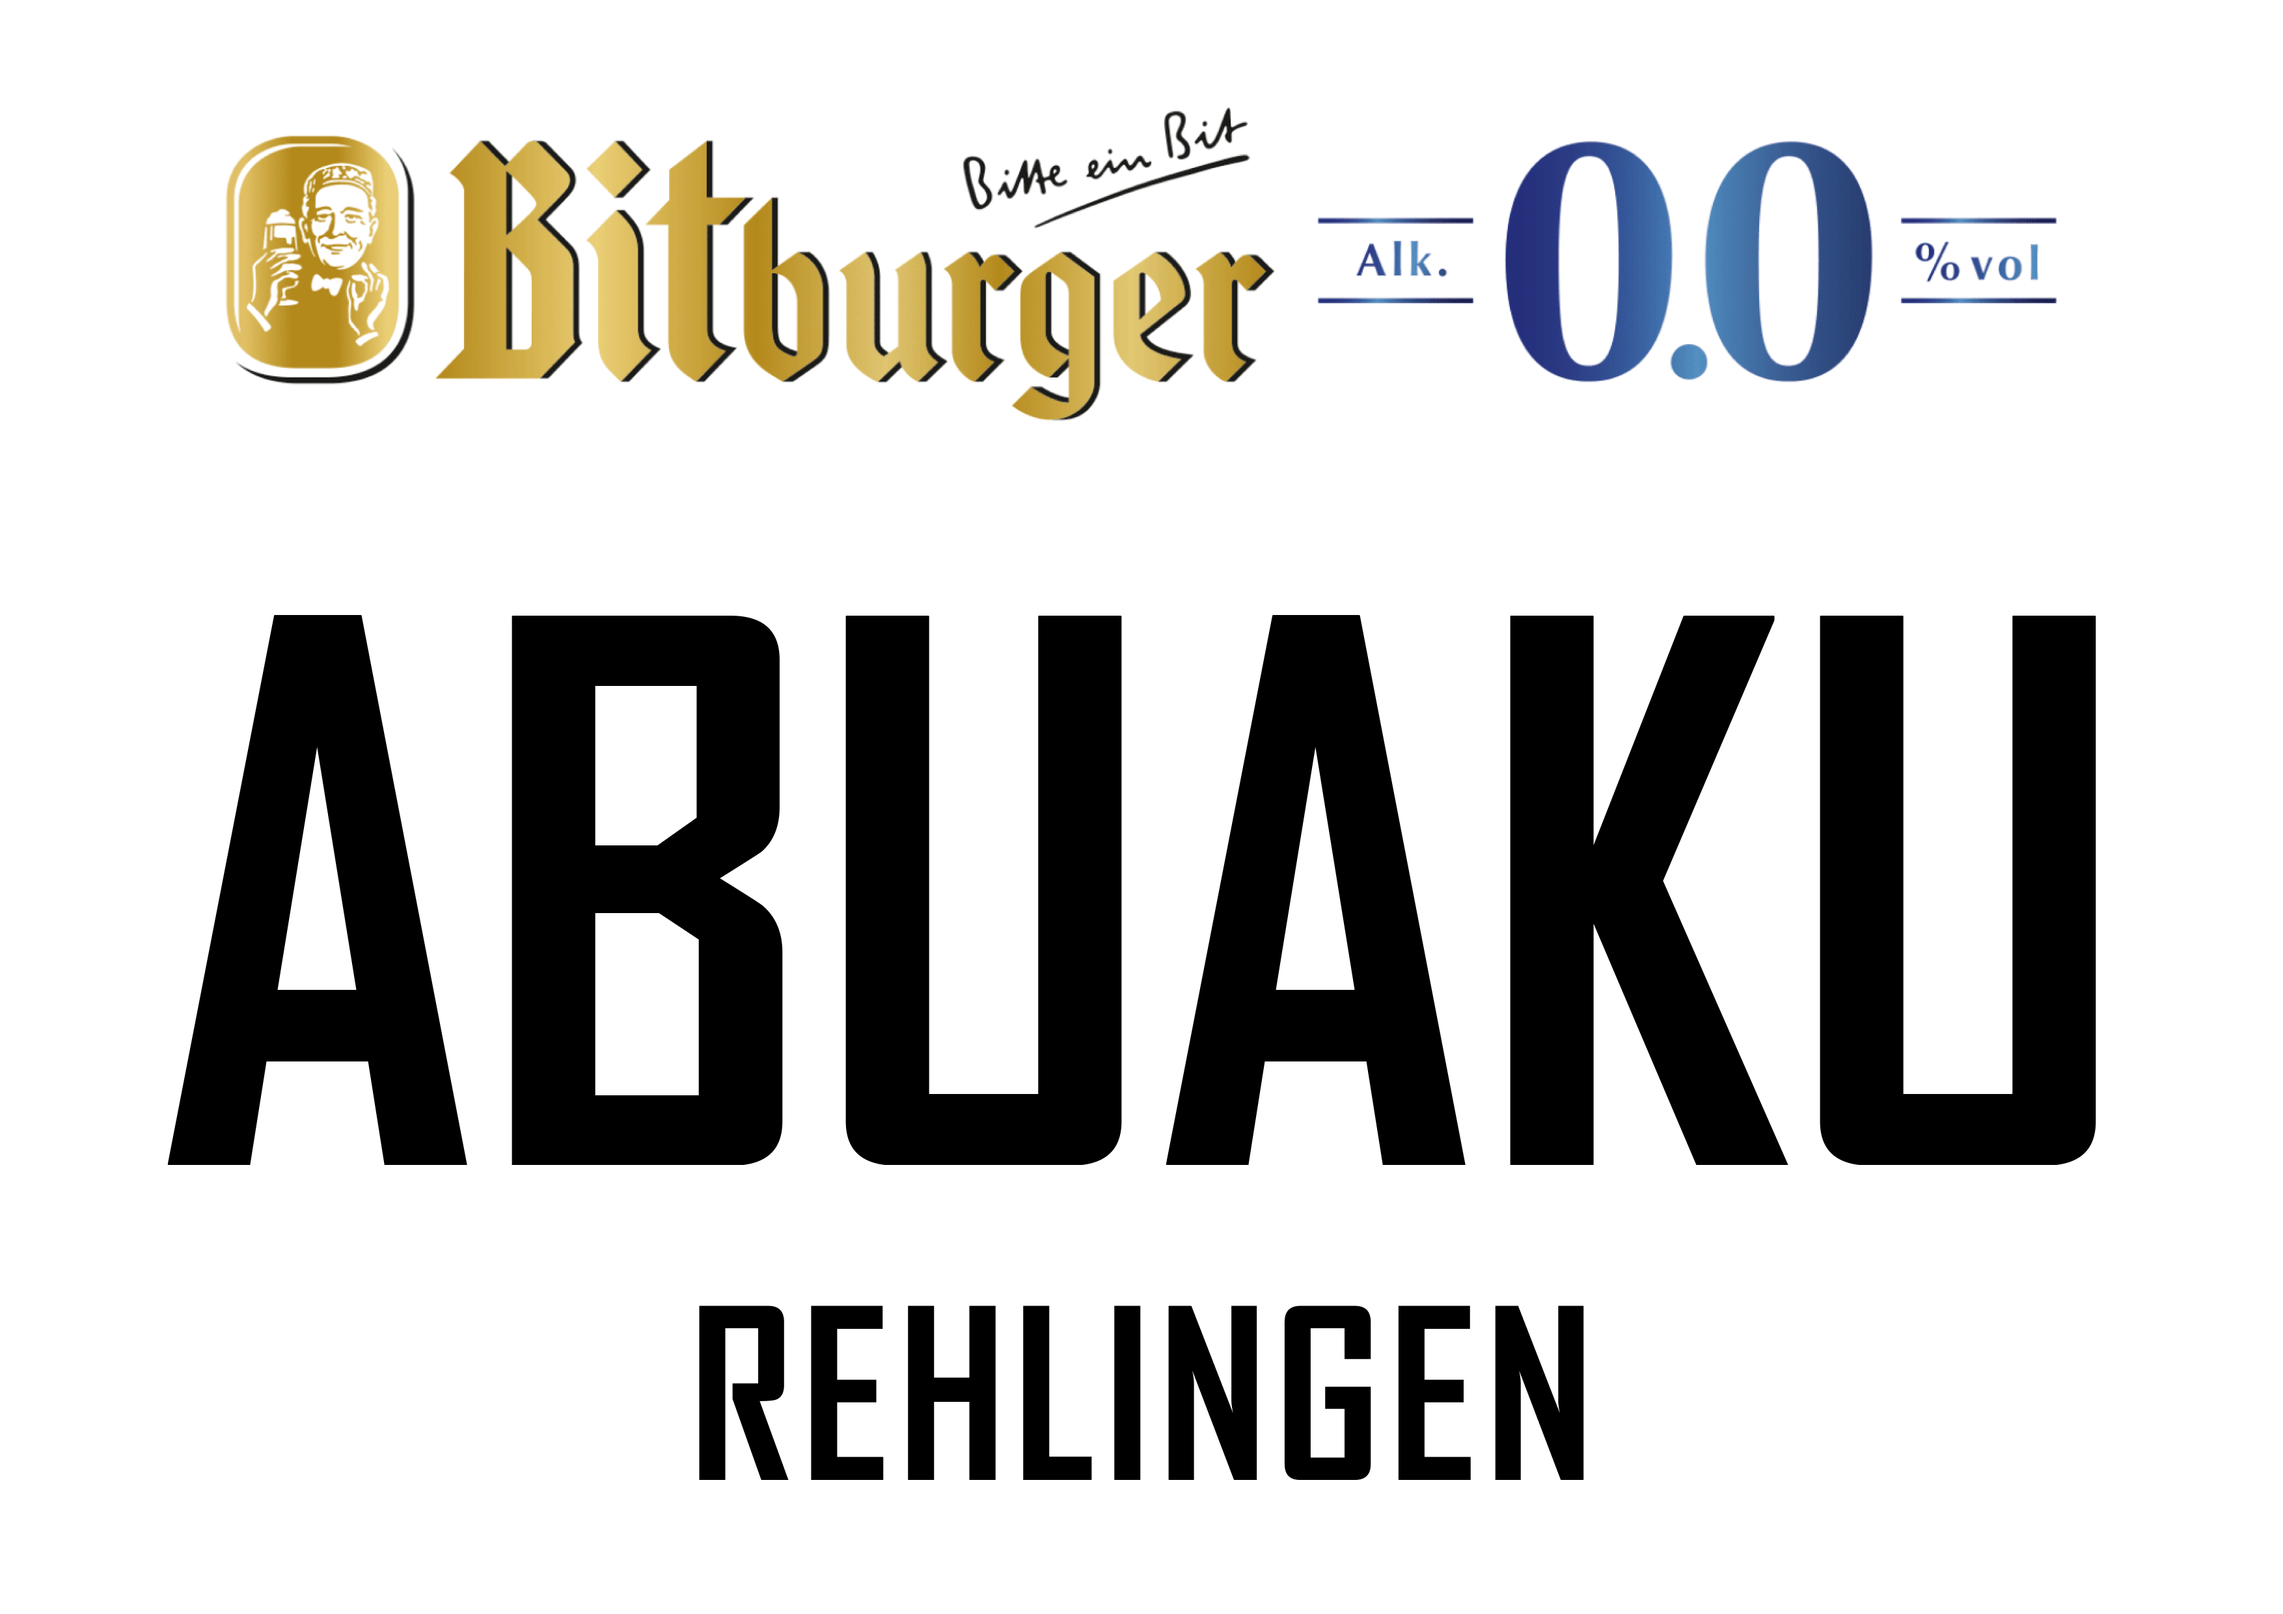
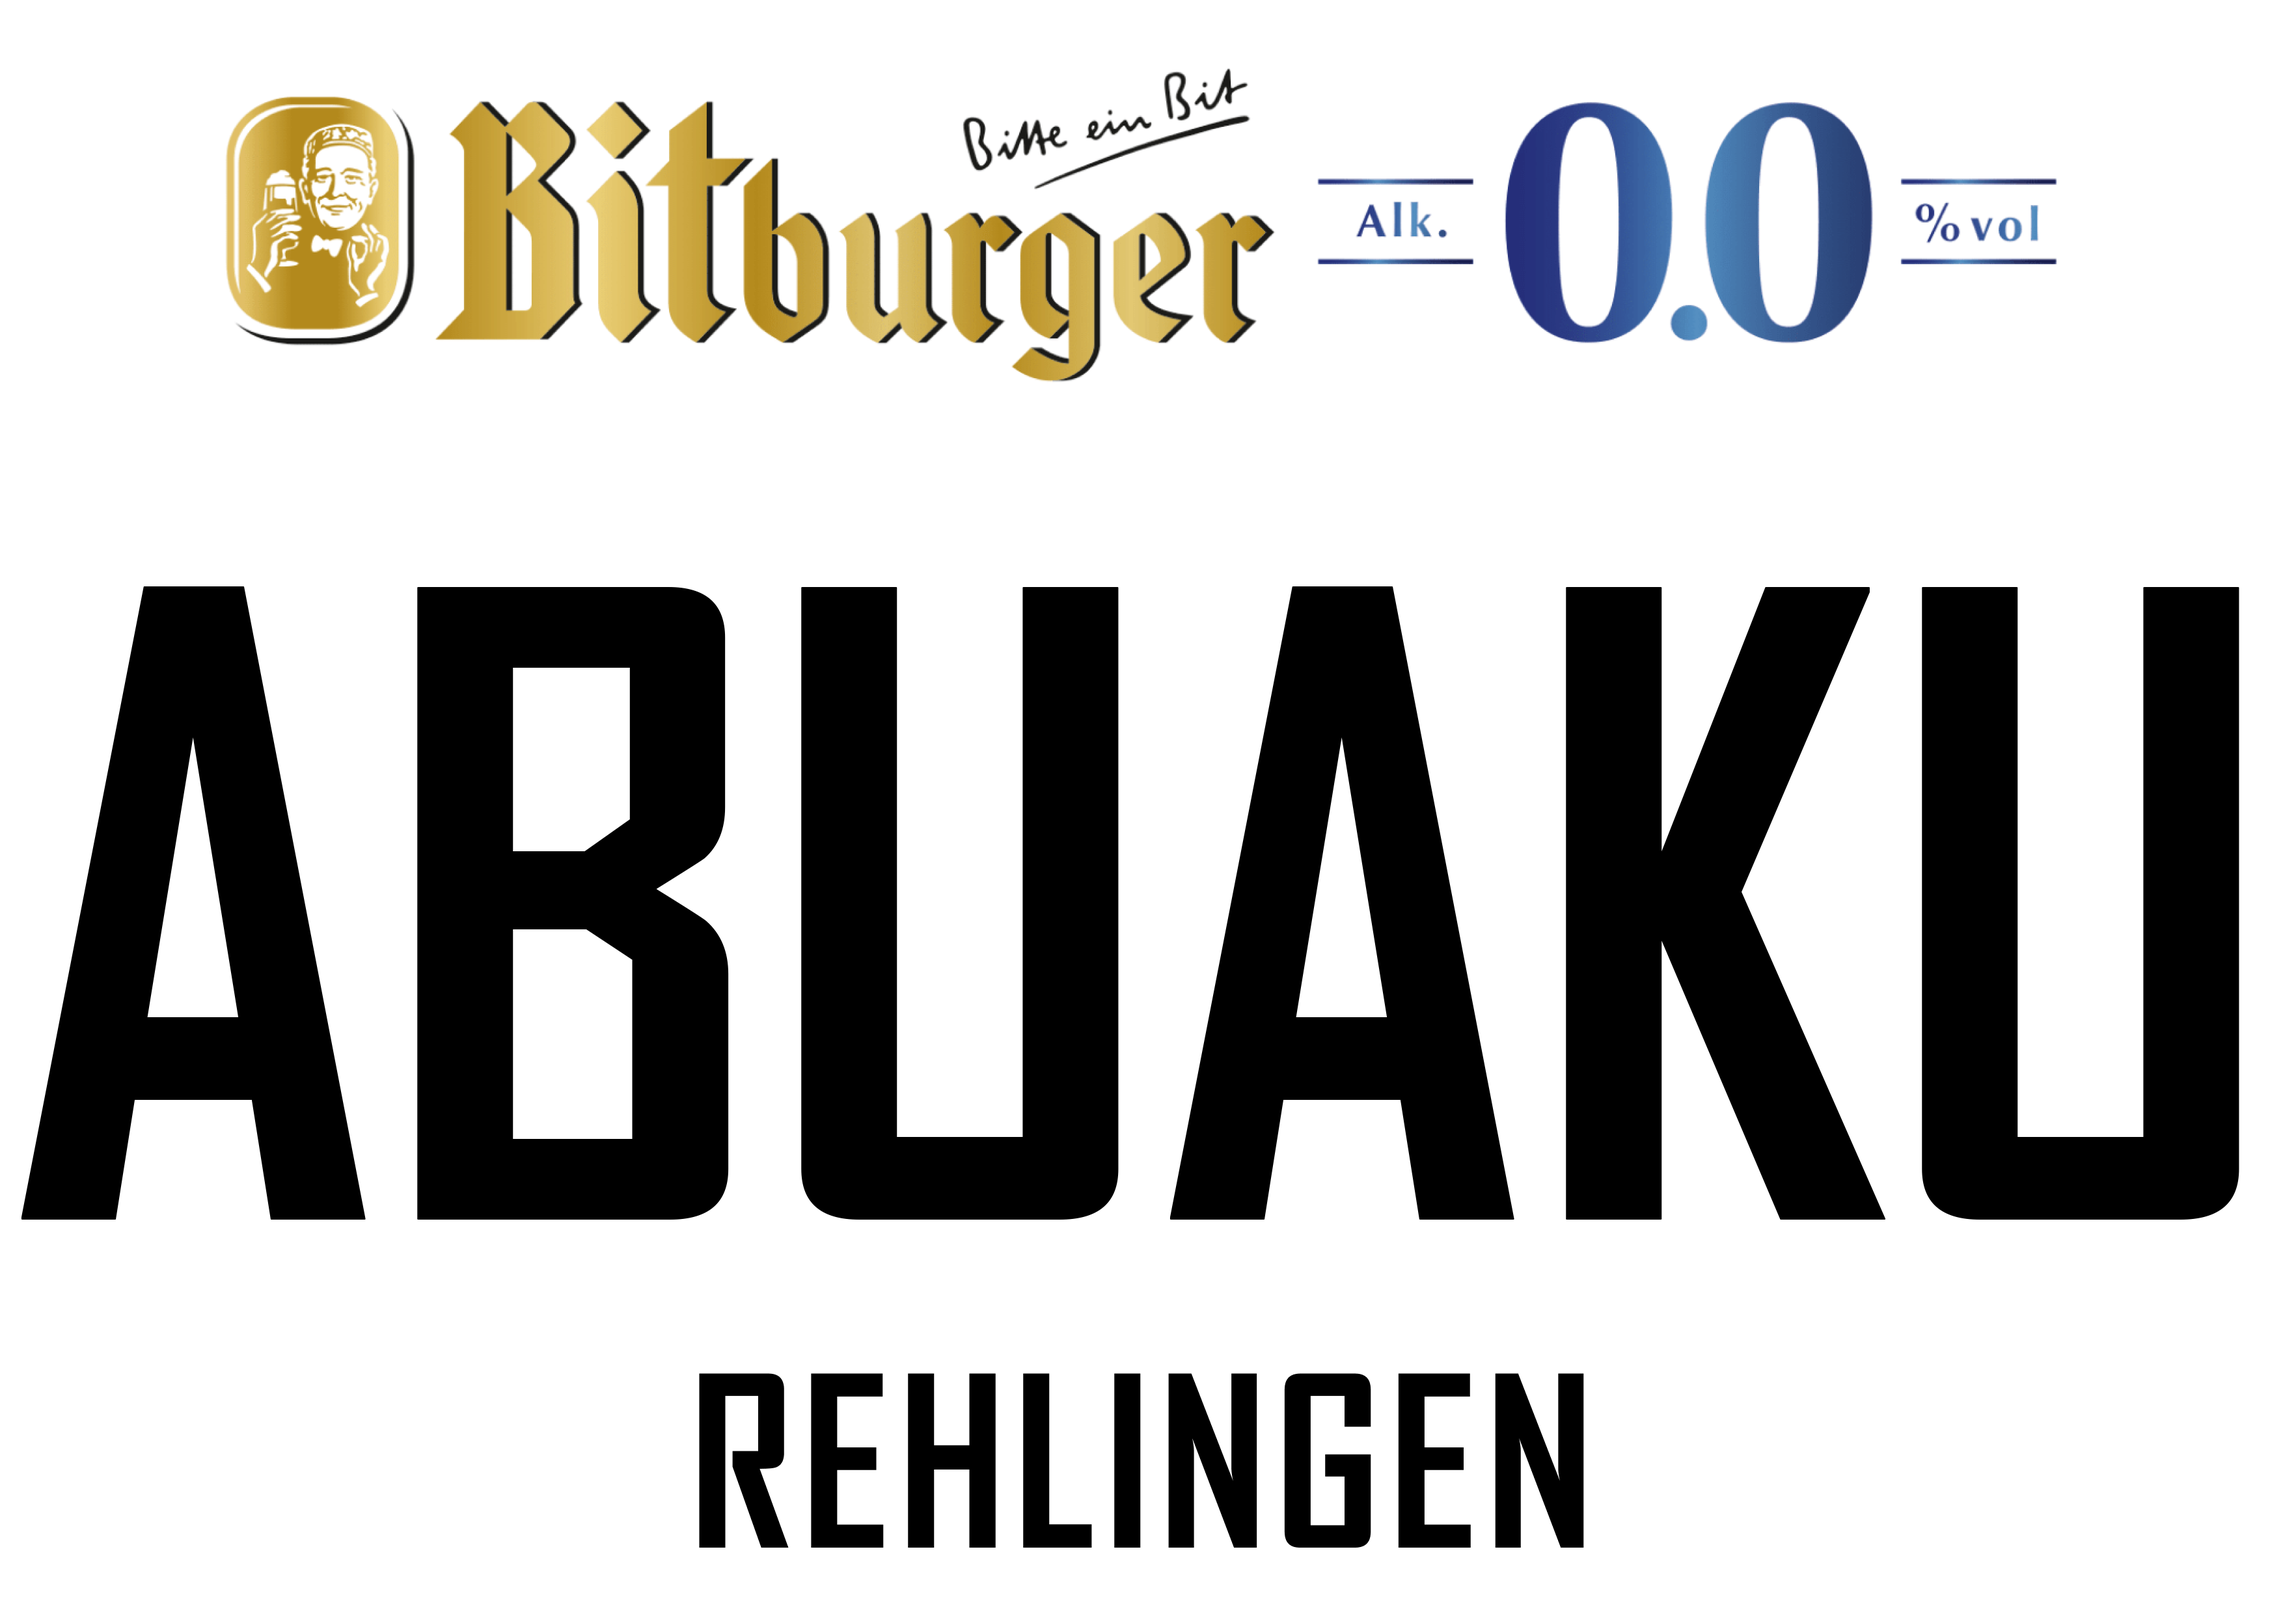
drop duplicates in csv

diff --git a/bib.py b/bib.py
@@ -2,8 +2,7 @@ from PIL import ImageFont, ImageDraw, Image
 import argparse
 import io
 
-def generate_image(txt, header_file, footer_file, font_file, header_offset = 0):
-    print("Generating image", txt, header_file, footer_file, font_file, header_offset)
+def generate_image(txt, header_file, footer_file, font_file):
     # A5 size
     image = Image.new("RGB", (3508, 2480), "white") 
     header = Image.open(header_file)
@@ -14,8 +13,8 @@ def generate_image(txt, header_file, footer_file, font_file, header_offset = 0):
     W, H = image.size
 
     # portion of image width you want text width to be
-    // TODO: config
-    blank = Image.new('RGB',(W - 25, 1400))
+    blank_height = image.size[1] - header.size[1] - footer.size[1];
+    blank = Image.new('RGB',(W - 25, blank_height), "white")
 
 
     font = ImageFont.truetype(font_file, fontsize)
@@ -37,15 +36,13 @@ def generate_image(txt, header_file, footer_file, font_file, header_offset = 0):
 
     #print('Fontsize:',fontsize)
     draw.text(((W-w)/2,(H-h)/2), txt, font=font, fill="black", align="center", stroke_width=1, stroke_fill="black")
-    #draw.rectangle([0, 0, blank.size[0] - 1, blank.size[1] - 1], outline="red", width=10)
+    # draw.rectangle([0, 0, blank.size[0] - 1, blank.size[1] - 1], outline="red", width=10)
 
     #draw.text((2100, 442), "150", font=font, fill="black", align="center", stroke_width=1, stroke_fill="black")
 
     # draw text on top right of text area
 
-    #draw.text((((W-w)/2) +w, (H-h)/2), "15", font=font, fill="black", align="center", stroke_width=3, stroke_fill="black")
-
-    image.paste(header, (0, header_offset))
+    image.paste(header, (0, 0))
     image.paste(footer, (0, image.size[1] - footer.size[1]))
 
     img_byte_arr = io.BytesIO()
@@ -55,8 +52,8 @@ def generate_image(txt, header_file, footer_file, font_file, header_offset = 0):
 
     
 
-def main(txt, output_file, header_file, footer_file, font_file, header_offset = 0):
-    bytes = generate_image(txt, header_file, footer_file, font_file, header_offset)
+def main(txt, output_file, header_file, footer_file, font_file):
+    bytes = generate_image(txt, header_file, footer_file, font_file)
     image = Image.open(io.BytesIO(bytes))
     image.save(output_file)
 
@@ -68,7 +65,6 @@ if __name__ == "__main__":
     parser.add_argument('--header', '-he', help='Header file name', required=True)
     parser.add_argument('--footer', '-f', help='Footer file name', required=True)
     parser.add_argument('--font', '-F', help='Font file name', required=True)
-    parser.add_argument('--header-offset', '-ho', help='Header offset', default=0, required=False, type=int)
 
     args = parser.parse_args()
 
@@ -77,9 +73,8 @@ if __name__ == "__main__":
     font_file = args.font
     txt = args.text
     output_file = args.output
-    header_offset = args.header_offset
 
-    main(txt, output_file, header_file, footer_file, font_file, header_offset)
+    main(txt, output_file, header_file, footer_file, font_file)
 
     
 

diff --git a/main.py b/main.py
@@ -13,8 +13,6 @@ if __name__ == "__main__":
     argparse.add_argument('--font', '-F', help='Font file name', required=True)
     argparse.add_argument(
         '--footer', '-he', help='Footer file name', default="rehlingen.png", required=False)
-    argparse.add_argument(
-        '--header-offset', '-ho', help='Header offset', default=0, required=False, type=int)
 
     args = argparse.parse_args()
 
@@ -22,9 +20,10 @@ if __name__ == "__main__":
     output_folder = args.output
     font_file = args.font
     footer_file = args.footer
-    header_offset = args.header_offset
 
     df = pd.read_csv(data_file, sep=args.seperator)
+
+    df = df.drop_duplicates()
 
     for index, row in df.iterrows():
         
@@ -39,4 +38,5 @@ if __name__ == "__main__":
         
         header_file = row['header']
         output_file = output_folder + "/" + lastname + "_" + firstname + ".png"
-        bib_generator(text, output_file, header_file, footer_file, font_file, header_offset)
+        print("Generating image", text, header_file, footer_file, font_file)
+        bib_generator(text, output_file, header_file, footer_file, font_file)
